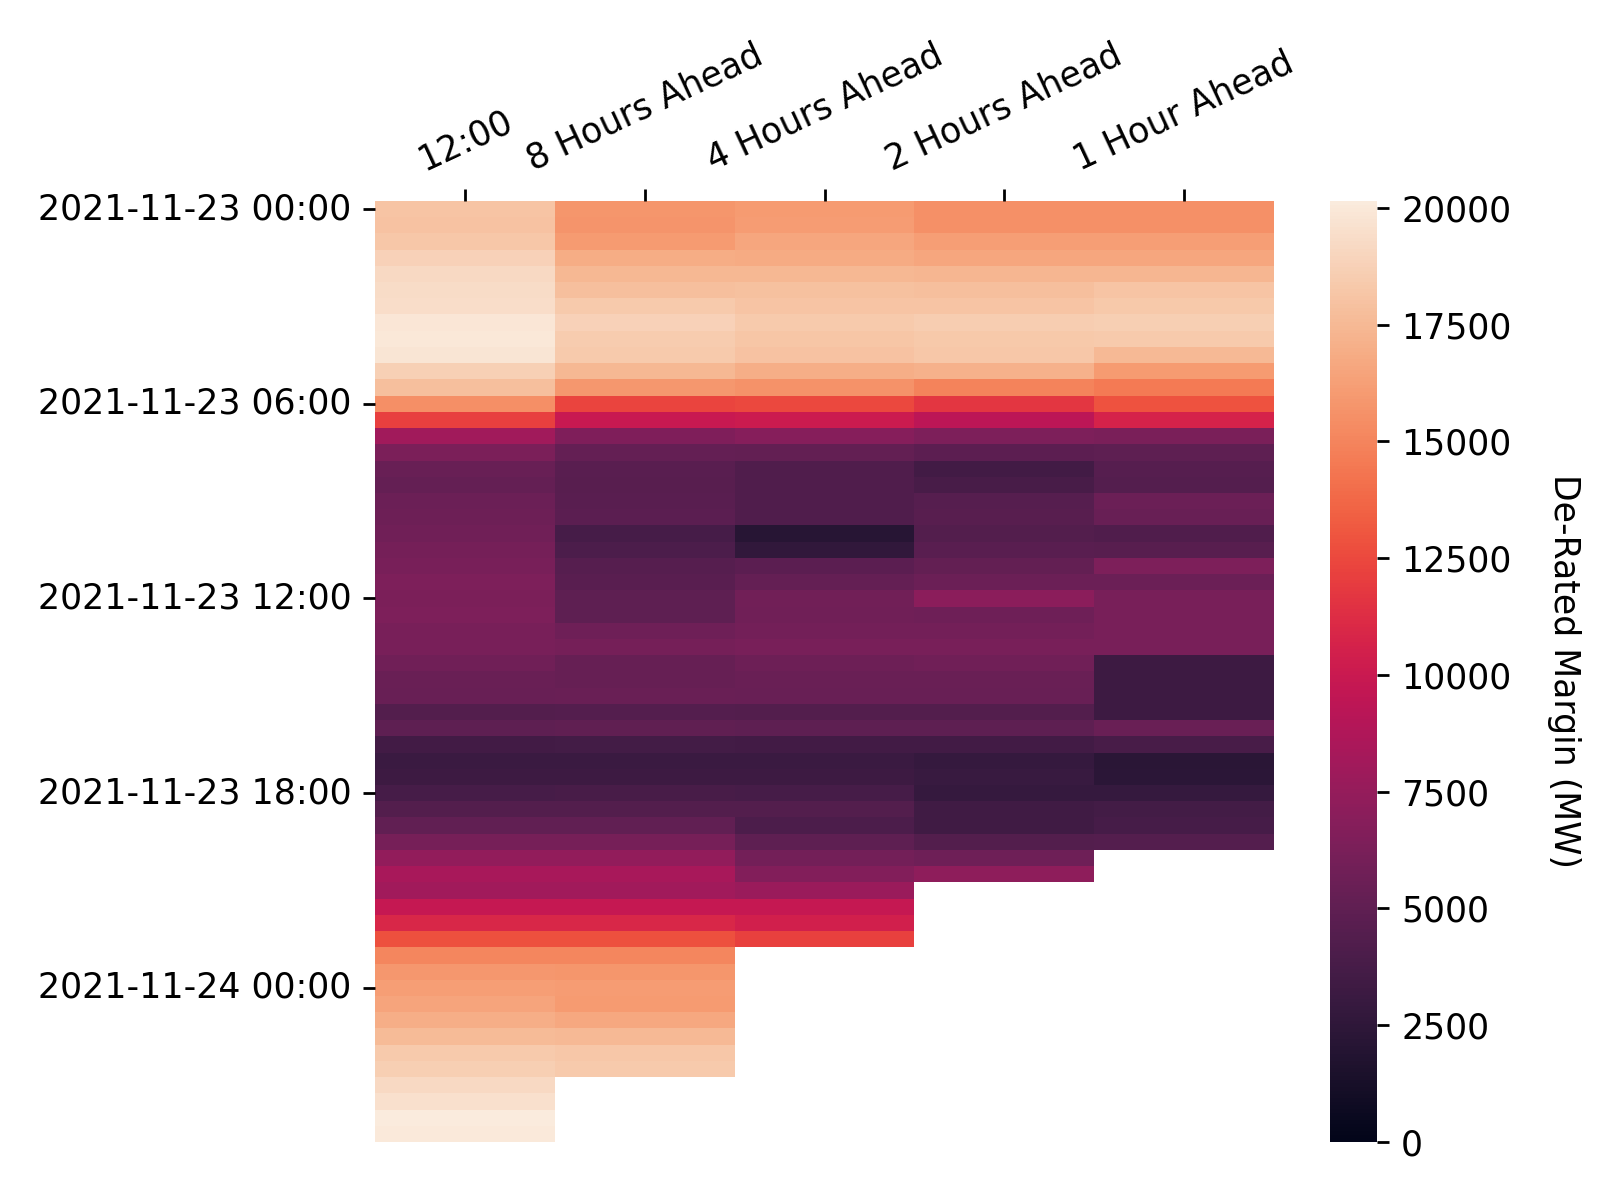
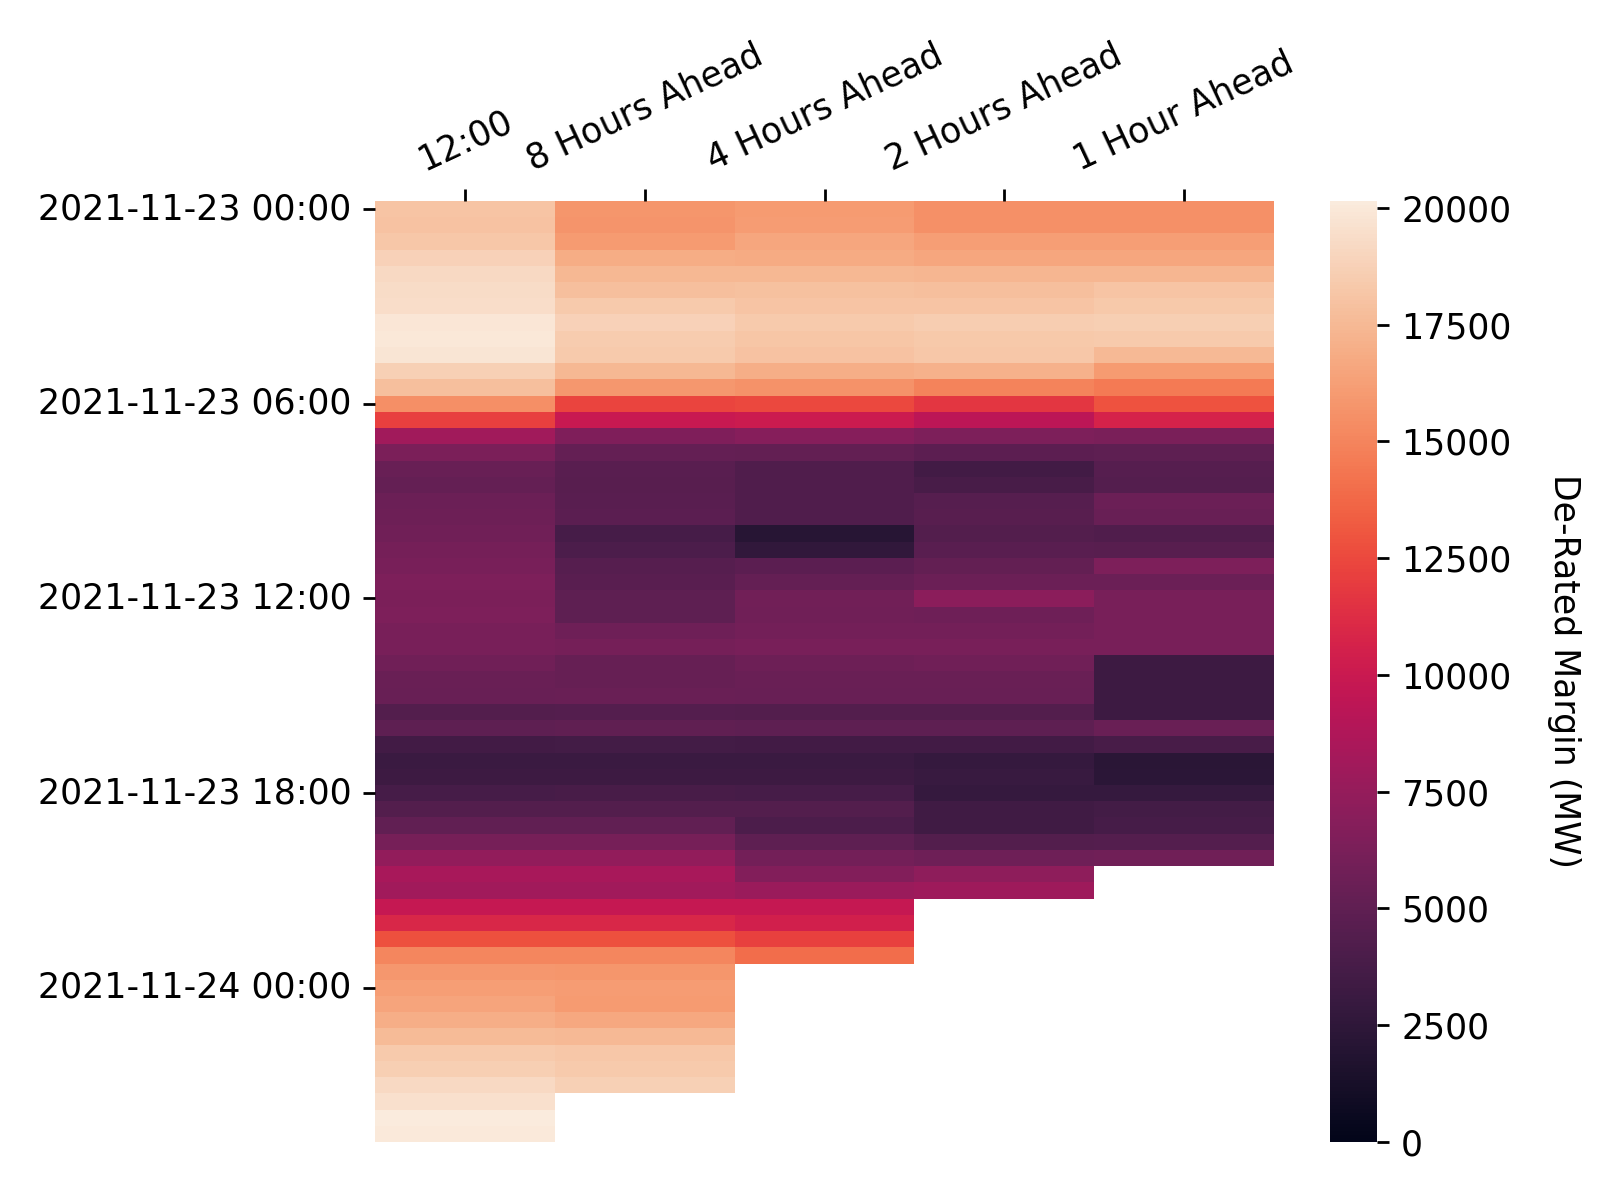
Apply automatic changes

Changed region(s): [[0.4375, 0.7092, 0.8125, 0.8017], [0.3438, 0.8942, 0.4688, 0.925]]

diff --git a/docs/js/map.js b/docs/js/map.js
@@ -144,7 +144,7 @@ document.addEventListener("DOMContentLoaded", function() {
                 follow: 1
             });
             mymap.addControl(sliderControl);
-            sliderControl.startSlider(333);
+            sliderControl.startSlider(334);
         });
     });
 });

diff --git a/docs/visualisations.md b/docs/visualisations.md
@@ -60,7 +60,7 @@ In each settlement period the system operator publishes the de-rated margin fore
 * At 1200 hours on each calendar day for all Settlement Periods for which Gate Closure has not yet passed and which occur within the current Operational Day or the following Operational Day; and
 * At eight, four, two and one hour(s) prior to the beginning of the Settlement Period to which the De-Rated Margin Forecast relates.
 
-These figures will be updated on an hourly basis, the last update was at: 2021-11-23 18:45
+These figures will be updated on an hourly basis, the last update was at: 2021-11-23 19:10
 
 <br>
 
@@ -83,7 +83,7 @@ The following heatmap shows how the more recent de-rated margin forecasts deviat
 
 ### Power Output Map
 
-Last Updated: 2021-11-23 18:45
+Last Updated: 2021-11-23 19:10
 
 This map shows the power output of individual plants connected to the transmission grid as stated in their most recent Physical Notifications. This data can be retrieved through the *PHYBMDATA* BMRS stream, the out-turn data can be viewed one week later through the *B1610* stream. The scrollbar at the top of the map can be used to view how the generation sources have changed their output over the last week, the layer control can be used to toggle on/off the transmission network, and the plants themselves can be clicked to reveal additional information. The plant location data used in this map has been taking from a sister project, [the Power Station Dictionary](https://osuked.github.io/Power-Station-Dictionary/), which aims to link between data about individual power plants.
 
